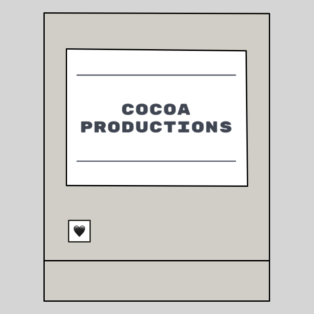
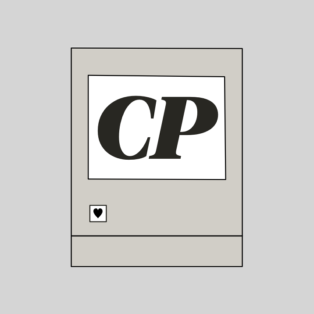
Version/2.0.1 (#1)
* Fix img
* Edit head
* update support page
* update menu icon
* Improve code rendering
* Update logo

Changed region(s): [[0.1146, 0.0287, 0.8885, 0.9745]]

diff --git a/_layouts/default.html b/_layouts/default.html
@@ -2,15 +2,15 @@
 <html lang="en">
 <head>
 	<title>Cocoa Productions</title>
-    <!-- Website version 2.0.0 -->
-	<meta charset="UTF-8">
-	<meta name="generator" content="BBEdit 12.6">
-	<link href="/style/style.css" rel="stylesheet">
+    <!-- Website version 2.0.1 -->
+	<link rel="apple-touch-icon" href="cocoa_productions.png">
 	<link rel="icon" href="images/favicon.ico" sizes="16x16 32x32" type="image/x-icon">
 	<link rel="apple-touch-icon-precomposed" href="cocoa_productions.png">
-	<link rel="apple-touch-icon" href="cocoa_productions.png">
+	<link href="/style/style.css" rel="stylesheet">
+	<meta charset="UTF-8">
     <meta name="viewport" content="width=device-width, initial-scale=1.0">
-	<meta name="description" content={{ site.description }}>
+	<meta name="description" content="{{ site.description }}">
+	<meta name="generator" content="BBEdit 12.6">
 </head>
 <body>
 
@@ -22,7 +22,7 @@
   <a href="/blog">Blog</a>
   <a href="/support">Support</a>
   <a href="javascript:void(0);" class="icon" onclick="expandMenu()">
-    <img src="/images/menu-bar-white.png" alt="Expand menu">
+    <img src="/images/menu-bar-white_2x.png" alt="Toggle navigation">
   </a>
 </div>
 

diff --git a/style/style.css b/style/style.css
@@ -53,7 +53,7 @@ h1 strong {
     width: 300px;
 }
 
-/* Menu 2.0 */
+/* Menu 2.0 https://www.w3schools.com/howto/howto_js_topnav_responsive.asp */
 
 .menu {
   overflow: hidden;
@@ -112,7 +112,8 @@ h1 strong {
 .icon img {
     width: 24px;
     height: 12px;
-    vertical-align: middle;
+    position: relative;
+    top: 1px;
 }
 
 /* Menu 2.0 end */
@@ -195,12 +196,9 @@ footer a {
     padding-bottom: 1em;
 }
 
-/* Caffeine++ end */
-
-/* 
-
-Credits
-
-How TO - Responsive Top Navigation https://www.w3schools.com/howto/howto_js_topnav_responsive.asp
-
-*/
+code { /* https://developer.mozilla.org/en-US/docs/Web/HTML/Element/code */
+    background-color: #eee;
+    border-radius: 3px;
+    font-family: courier, monospace;
+    padding: 0 3px;
+}
